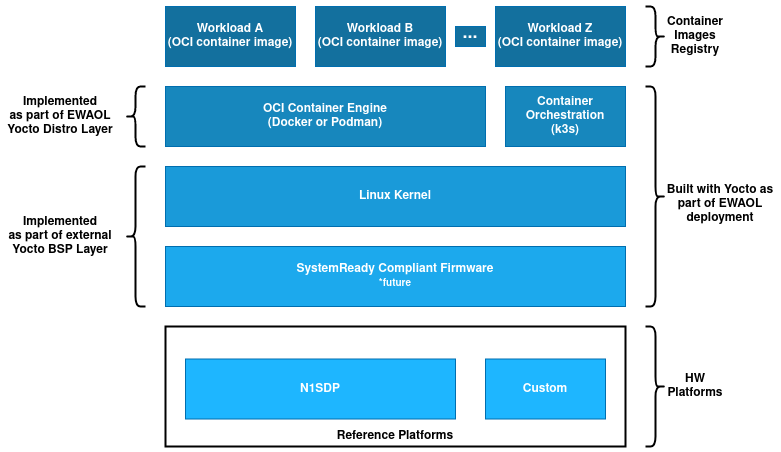
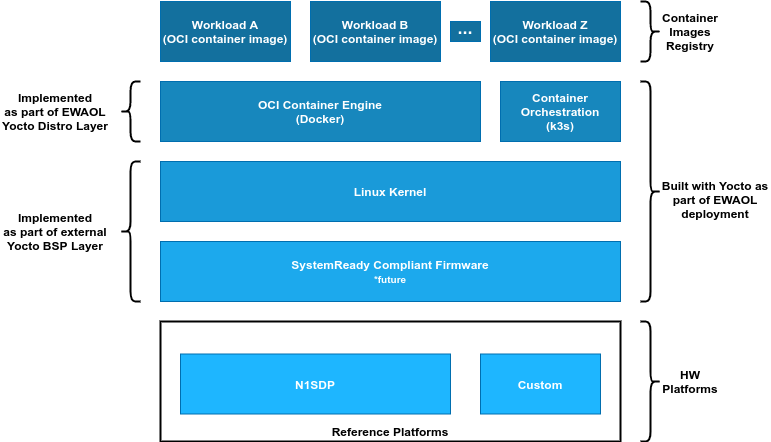
doc,ewaol-config,ewaol-distro,ewaol-tests: Drop Podman image flavor
EWAOL will be only building images with Docker container engine, hence also
rename ewaol-image-docker[-sdk] to ewaol-image[-sdk] since there will be only
one image flavor.

Issue-Id: SCM-3553

Changed region(s): [[0.0, 0.1765, 0.9961, 1.0], [0.1868, 0.0, 0.9339, 0.1471], [0.4358, 0.4118, 0.5603, 0.4412]]

diff --git a/documentation/builds.rst b/documentation/builds.rst
@@ -1,26 +1,22 @@
 Image Builds
 ============
 
-The main image build targets are:
+The main image build target is:
 
-* ``ewaol-image-docker``
-* ``ewaol-image-podman``
+* ``ewaol-image``
 
-Each build target implements the EWAOL software stack, differing only on the
-backend containerization technology: Docker or Podman.
-
-To facilitate containerized workload orchestration on the edge, both build
-targets include the K3S orchestration package provided by the
-``meta-virtualization`` Yocto layer and extended in ``meta-ewaol``. This
-package provides a K3S server wrapped as a systemd service which auto-starts on
-image boot. The K3S server may be interacted with via the Kubernetes REST API
-or via the Kubernetes command-line tool ``kubectl``, where the `Kubernetes API
-Overview`_ and `kubectl Overview`_ may be referred to for usage instructions.
-Enabling and disabling the systemd service via ``systemctl [start|stop] k3s``
-will bring-up and shutdown the K3S server running on the image, meaning
-containers may remain running (without orchestration) after stopping the
-systemd service. If desired, containers may be stopped prior to shutting down
-the server via the API or command-line tool, or alternatively they may be
+Which includes Docker container engine and to facilitate containerized workload
+orchestration on the edge, it also includes the K3S orchestration package, both
+provided by the ``meta-virtualization`` Yocto layer. The K3S recipe provides a
+package containing a K3S server wrapped as a systemd service which auto-starts
+on image boot. The K3S server may be interacted with via the Kubernetes REST
+API or via the Kubernetes command-line tool ``kubectl``, where the `Kubernetes
+API Overview`_ and `kubectl Overview`_ may be referred to for usage
+instructions. Enabling and disabling the systemd service via ``systemctl [start
+|stop] k3s`` will bring-up and shutdown the K3S server running on the image,
+meaning containers may remain running (without orchestration) after stopping
+the systemd service. If desired, containers may be stopped prior to shutting
+down the server via the API or command-line tool, or alternatively they may be
 stopped independently from the server status via the provided
 ``k3s-killall.sh`` script.
 
@@ -336,8 +332,8 @@ for example `kernel module compilation`_, `profiling and tracing`_, and
 
 To build SDK image append ``meta-ewaol-config/kas/sdk.yml`` configuration
 file to the kas build command. This ``.yml`` file changes the default build
-targets to ``ewaol-image-[docker|podman]-sdk``. For more details about
-selecting configuration files for kas, see: :ref:`quickstart_build_host_setup`.
+target to ``ewaol-image-sdk``. For more details about selecting configuration
+files for kas, see: :ref:`quickstart_build_host_setup`.
 
 For example, to build the SDK images for the N1SDP via kas:
 
@@ -345,7 +341,7 @@ For example, to build the SDK images for the N1SDP via kas:
 
   kas build meta-ewaol-config/kas/n1sdp.yml:meta-ewaol-config/kas/sdk.yml
 
-In this example, the SDK images produced by the kas build will be found at:
-``build/tmp/deploy/images/n1sdp/ewaol-image-[docker|podman]-sdk-n1sdp.*``.
-To deploy the generated images, please refer to the
+In this example, the SDK produced image by the kas build will be found at:
+``build/tmp/deploy/images/n1sdp/ewaol-image-sdk-n1sdp.*``.
+To deploy the generated image, please refer to the
 :ref:`quickstart_deploy_on_n1sdp` section.

diff --git a/documentation/quickstart.rst b/documentation/quickstart.rst
@@ -86,8 +86,8 @@ Checkout the ``meta-ewaol`` repository:
    cd meta-ewaol
 
 Running kas with the build configurations within ``meta-ewaol-config`` will
-build two images by default: one that includes the Docker container engine and
-another one that includes the Podman container engine.
+build an image that includes Docker container engine and K3s for the
+containerized workload orchestration.
 
 N1SDP
 =====
@@ -106,18 +106,9 @@ To build the images via kas for the N1SDP board:
 
    kas build meta-ewaol-config/kas/n1sdp.yml
 
-The resulting images will be produced:
+The resulting image will be produced:
 
- - ``build/tmp/deploy/images/n1sdp/ewaol-image-docker-n1sdp.*``
- - ``build/tmp/deploy/images/n1sdp/ewaol-image-podman-n1sdp.*``
-
-To build only one image corresponding to a particular container engine, specify
-the ``--target`` (either ``ewaol-image-docker`` or ``ewaol-image-podman``) as
-an option to the kas build command, as shown in the following example:
-
-.. code-block:: console
-
-   kas build --target ewaol-image-docker meta-ewaol-config/kas/n1sdp.yml
+ - ``build/tmp/deploy/images/n1sdp/ewaol-image-n1sdp.*``
 
 .. _quickstart_deploy_on_n1sdp:
 
@@ -152,7 +143,7 @@ Identify the USB storage device using ``lsblk`` command:
    In this example, the USB storage device is the ``/dev/sdc`` device. Be extra
    careful when copying and pasting the following commands.
 
-Use ``bmap-tools`` to copy the image to USB disk (docker image in this example):
+Use ``bmap-tools`` to copy the image to USB disk:
 
 .. note::
    All partitions and data on the USB disk will be erased. Please backup before
@@ -162,7 +153,7 @@ Use ``bmap-tools`` to copy the image to USB disk (docker image in this example):
 
    sudo umount /dev/sdc*
    cd build/tmp/deploy/images/n1sdp/
-   sudo bmaptool copy --bmap ewaol-image-docker-n1sdp.wic.bmap ewaol-image-docker-n1sdp.wic.gz /dev/sdc
+   sudo bmaptool copy --bmap ewaol-image-n1sdp.wic.bmap ewaol-image-n1sdp.wic.gz /dev/sdc
 
 Safely eject the USB storage device from the host PC and plug it onto one of
 the USB 3.0 ports in the N1SDP.

diff --git a/documentation/validations.rst b/documentation/validations.rst
@@ -13,7 +13,7 @@ any desired Yocto image build process.
 Currently, run-time integration tests are provided for validating the
 functionality of:
 
-* Container Engine (Docker, Podman)
+* Docker Container Engine
 * K3S Container Orchestration
 
 These integration tests are described later in this document.
@@ -178,9 +178,6 @@ The test suite is built and installed in the image according to the following
 bitbake recipe within
 ``meta-ewaol-tests/recipes-tests/runtime-integration-tests/container-engine-integration-tests.bb``.
 
-The tests execution is identical on both Docker and Podman images, as it makes
-use of Podman provided aliases for Docker commands.
-
 Currently the test suite contains two top-level integration tests, which run
 consecutively in the following order.
 
@@ -248,8 +245,6 @@ in `Running the Tests`_.
 The test suite is built and installed in the image according to the following
 bitbake recipe within
 ``meta-ewaol-tests/recipes-tests/runtime-integration-tests/k3s-integration-tests.bb``.
-
-The tests execution is identical on both Docker and Podman images.
 
 Currently the test suite contains a single top-level integration test which
 validates the deployment and high-availability of a test workload based on the

diff --git a/documentation/overview.rst b/documentation/overview.rst
@@ -44,7 +44,7 @@ The EWAOL images include the following major features:
   * Based on ``poky.conf`` distro
   * Systemd as init system
   * RPM as the package management system
-  * Docker or Podman as container engine
+  * Docker as container engine
   * runc-opencontainers as the OCI container runtime
   * Development and Test images flavors
 
